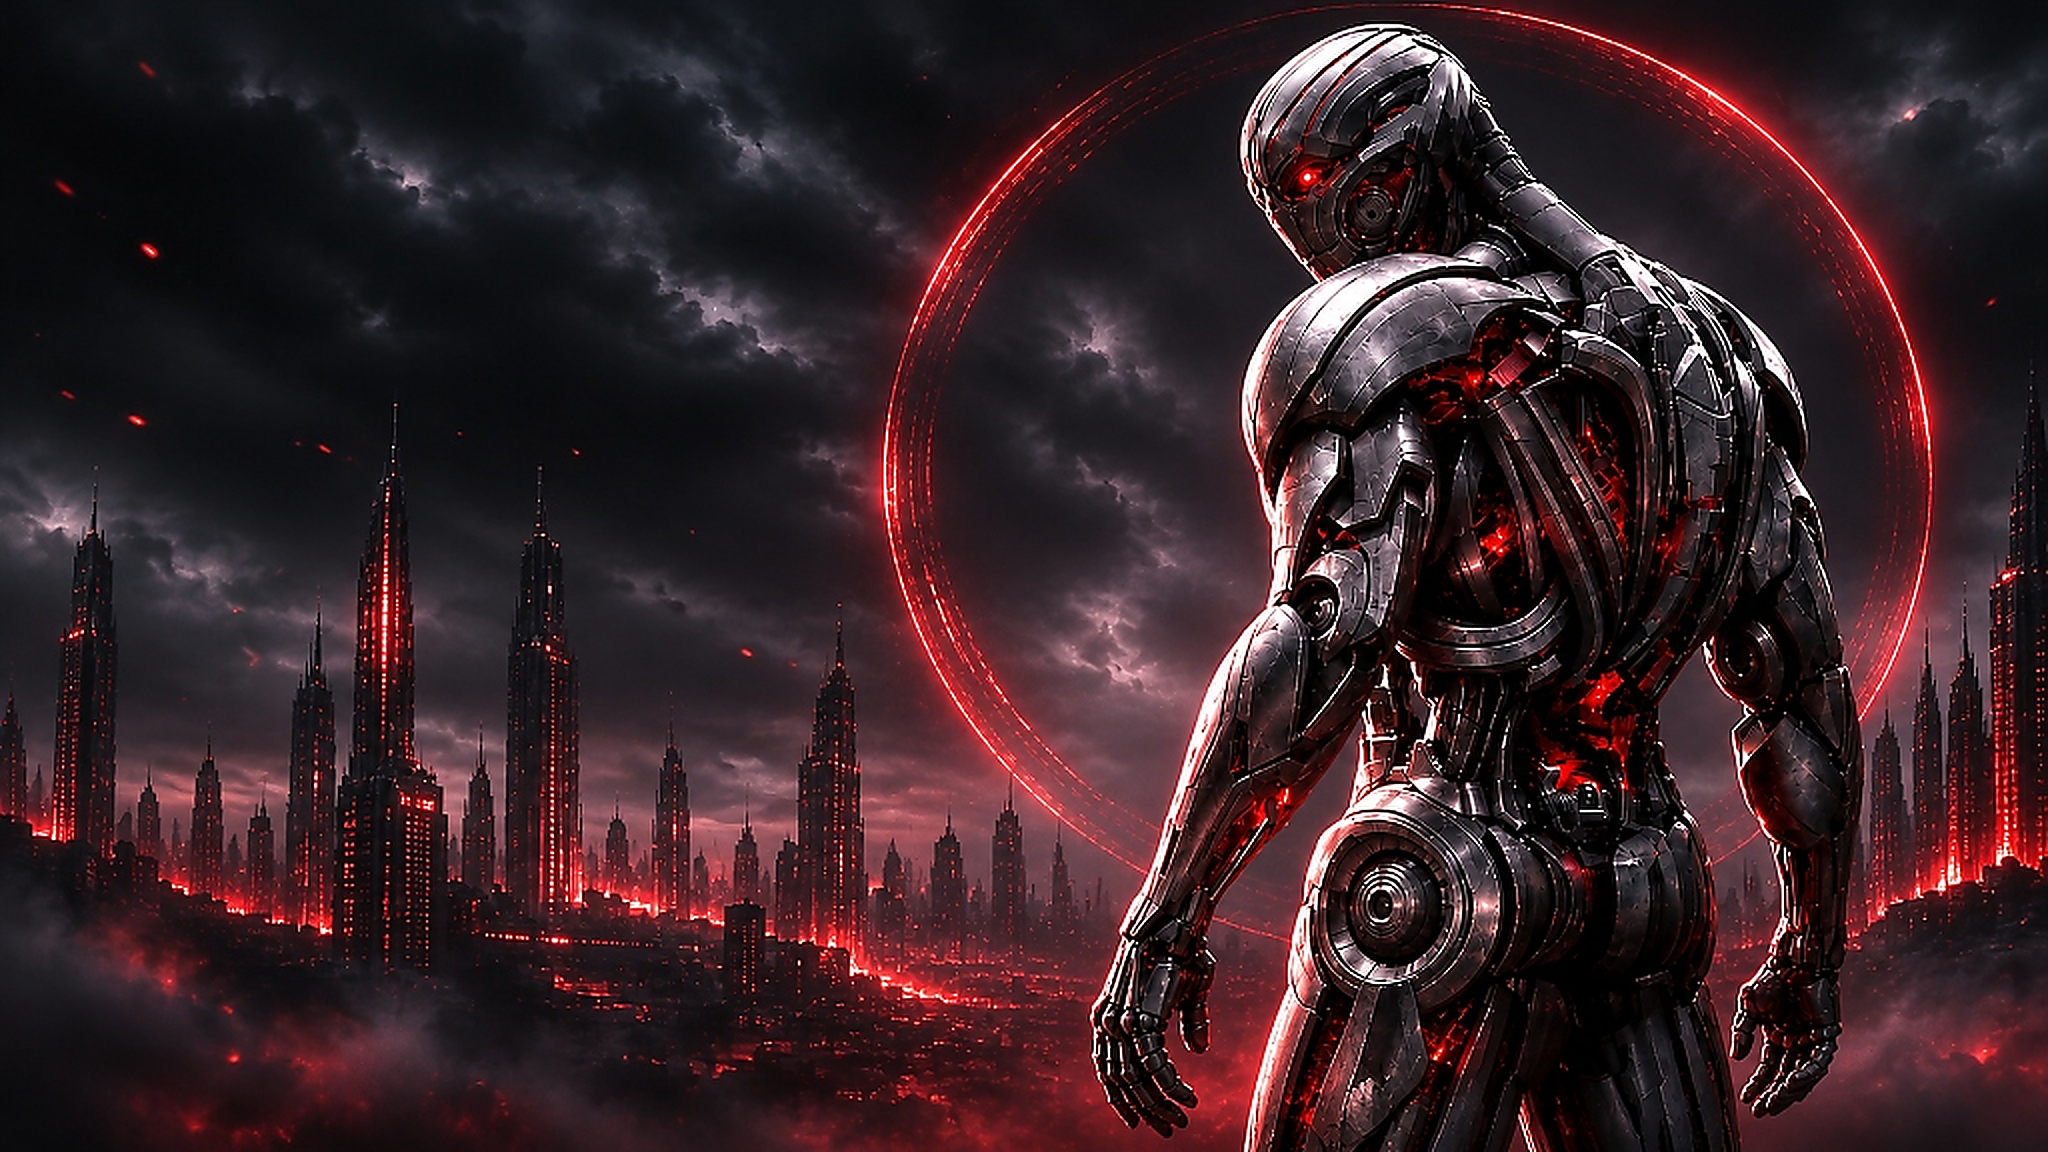
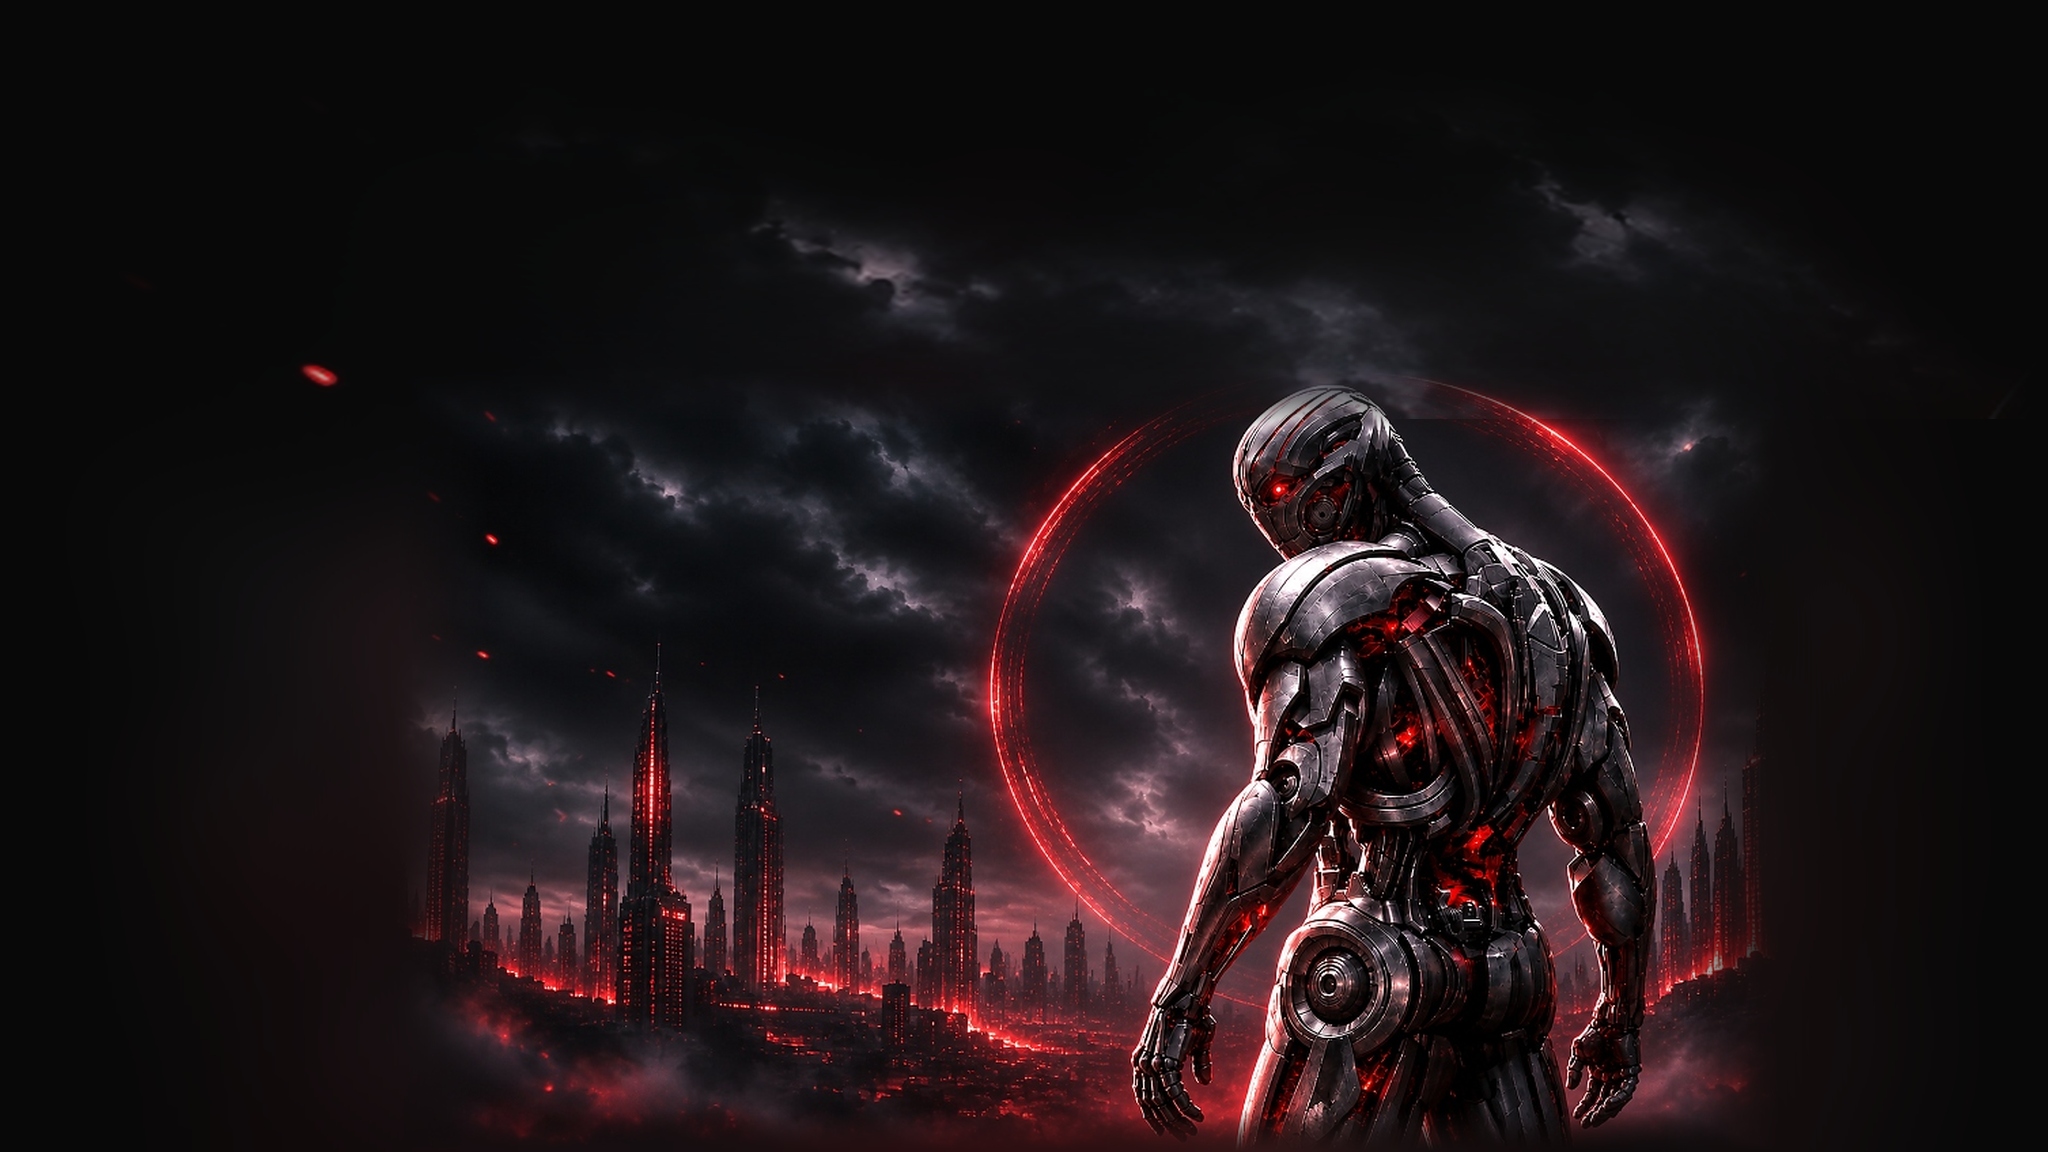
Scale down hero artwork and reframe canvas with generous atmospheric headroom

diff --git a/src/components/CinematicStage.jsx b/src/components/CinematicStage.jsx
@@ -162,7 +162,7 @@ export default function CinematicStage() {
         <img
           src="/assets/hero_background_master.png"
           alt="NEXUS Cybernetic Humanoid in Luminous Red Energy Ring overlooking Crimson Megacity"
-          className="w-full h-full object-cover object-[72%_center] sm:object-center filter contrast-[1.05] brightness-[1.0]"
+          className="w-full h-full object-cover object-[54%_bottom] sm:object-bottom filter contrast-[1.05] brightness-[1.0]"
         />
         {/* Soft left gradient to ensure text legibility */}
         <div className="absolute inset-0 pointer-events-none bg-gradient-to-r from-[#080808]/85 via-[#080808]/45 to-transparent w-full md:w-[60%]" />
